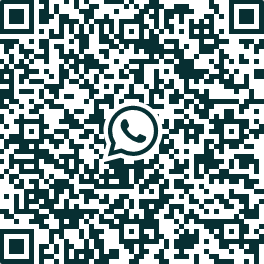
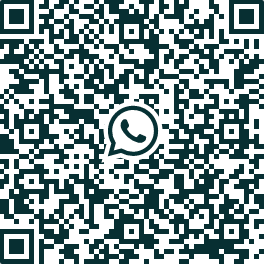
first commit

diff --git a/parser/parser.py b/parser/parser.py
@@ -17,6 +17,7 @@ import requests
 from bs4 import BeautifulSoup as bs
 import time
 import sys
+import urllib.request
 
 from database import crud
 
@@ -78,6 +79,47 @@ async def get_items(category : str, session, subcategory : str = 'Другое')
             #
             logging.info(title)
             time.sleep(1)
+
+            
+            img = await session.get_screenshot()
+            with open('item.png', 'wb') as png:
+                png.write(img.read())
+            if subcategory == 'Другое':
+                img_xpath = '//*[@id="app"]/div/div/div[6]/span/div/span/div/div[2]/div/div[2]/div/div[1]/div[1]/div/img'
+            else:
+                img_xpath = '//*[@id="app"]/div/div/div[6]/span/div/span/span/div/div[2]/div/div[2]/div/div[1]/div[1]/div/img'
+            images_el = await session.wait_for_element(10, img_xpath, SelectorType.xpath)
+            print(images_el)
+            src = await images_el.get_attribute('src')
+            print(src)
+           
+            
+            
+            # сохраняем изображения
+            webpage = await session.get_page_source()
+            soup = bs(webpage, 'lxml')
+            image_links = soup.find_all('div', '_1Z_Af')
+            for im in image_links:
+                print(im.find('img').get('src'))
+            """
+            images = ''
+            async with aiohttp.ClientSession() as session:
+                for link in image_links:
+                    i = image_links.index(link) + 1
+                    response = await session.get(url=link.find('img').get('src'), ssl=False)
+                    if subcategory == 'Другое':
+                        with open(f"database/images/{category}/{i}_{title.replace(' ', '_').replace('/', '_')}.png", 'wb') as png:
+                            png.write(response.content)
+                        images += f"database/images/{category}/{i}_{title.replace(' ', '_').replace('/', '_')}.png\n"
+                    else:
+                        if not os.path.exists(f"database/images/{category}/{subcategory}"):
+                            os.mkdir(f"database/images/{category}/{subcategory}")
+                        with open(f"database/images/{category}/{subcategory}/{i}_{title.replace(' ', '_').replace('/', '_')}.png", 'wb') as png:
+                            png.write(response.content)
+                        images += f"database/images/{category}/{subcategory}/{i}_{title.replace(' ', '_').replace('/', '_')}.png\n"
+
+            """
+            images = ''
             if subcategory == 'Другое':
                 img_xpath = '//*[@id="app"]/div/div/div[6]/span/div/span/div/div[2]/div/div[2]/div/div[1]/div[1]/div/img'
                 img_el = await session.wait_for_element(10, img_xpath, SelectorType.xpath)
@@ -87,11 +129,11 @@ async def get_items(category : str, session, subcategory : str = 'Другое')
                     img_xpath = '//*[@id="app"]/div/div/div[6]/span/div/span/span/div/div[2]/div/div[2]/div/div[1]/div/div/img'
                     img_el = await session.wait_for_element(10, img_xpath, SelectorType.xpath)
                     img = await img_el.get_screenshot()
-                # сохраняем изображениe
                 except:
                     img_xpath = '//*[@id="app"]/div/div/div[6]/span/div/span/span/div/div[2]/div/div[2]/div/div[1]/div[1]/div/img'
                     img_el = await session.wait_for_element(10, img_xpath, SelectorType.xpath)
                     img = await img_el.get_screenshot()
+            
             #создаем дирректорию категории если ее еще нет
             if not os.path.exists(f"database/images/{category}"):
                 os.mkdir(f"database/images/{category}")
@@ -99,11 +141,14 @@ async def get_items(category : str, session, subcategory : str = 'Другое')
             if subcategory == 'Другое':
                 with open(f"database/images/{category}/{i}_{title.replace(' ', '_').replace('/', '_')}.png", 'wb') as png:
                     png.write(img.read())
+                images += f"database/images/{category}/{i}_{title.replace(' ', '_').replace('/', '_')}.png\n"
             else:
                 if not os.path.exists(f"database/images/{category}/{subcategory}"):
                     os.mkdir(f"database/images/{category}/{subcategory}")
                 with open(f"database/images/{category}/{subcategory}/{i}_{title.replace(' ', '_').replace('/', '_')}.png", 'wb') as png:
                     png.write(img.read())
+                images += f"database/images/{category}/{subcategory}/{i}_{title.replace(' ', '_').replace('/', '_')}.png\n"
+            
             # записываем данные о товаре
             if subcategory == 'Другое':
                 price_xpath = '//*[@id="app"]/div/div/div[6]/span/div/span/div/div[2]/div/div[3]/div[2]/span'
@@ -134,9 +179,9 @@ async def get_items(category : str, session, subcategory : str = 'Другое')
                 logging.info('no description')
             subcategory_ = None if subcategory == 'Другое' else subcategory
             if subcategory == 'Другое':
-                lst = [title, category, subcategory_, description, price, f"database/images/{category}/{i}_{title.replace(' ', '_').replace('/', '_')}.png"]
+                lst = [title, category, subcategory_, description, price, images]
             else:
-                lst = [title, category, subcategory_, description, price, f"database/images/{category}/{subcategory}/{i}_{title.replace(' ', '_').replace('/', '_')}.png"]
+                lst = [title, category, subcategory_, description, price, images]
             items.append(lst)
             logging.info(lst)
             # закрываем карточку товара кнопкой "назад"
@@ -192,7 +237,8 @@ async def get_catalog(url):
         "goog:chromeOptions": {"args": [
             '--user-data-dir=parser/User', 
             '--headless',
-            'window-size=1280,720',
+            #'window-size=1280,720',
+            '--start-maximized',
             '--private',
             '--disable-gpu',
             '--disable-dev-shm-usage',
@@ -203,6 +249,7 @@ async def get_catalog(url):
     
     async with get_session(service, browser) as session:
         await session.get(url)
+        await session.set_window_fullscreen()
         # пытаемся найти заголовок каталога, если его нет - делаем скриншот qr-кода 
         try:
             logging.warning('Попытка входа. Ищем название каталога.')
@@ -216,9 +263,9 @@ async def get_catalog(url):
             img = await session.get_screenshot()
             with open('parser/checklogin.png', 'wb') as png:
                 png.write(img.read())
-            #qc = await session.wait_for_element(120, qc_xpath, SelectorType.xpath)
-            await asyncio.sleep(60)
-            img = await session.get_screenshot()
+            qc = await session.wait_for_element(120, qc_xpath, SelectorType.xpath)
+            #await asyncio.sleep(60)
+            img = await qc.get_screenshot()
             with open('parser/screenshot.png', 'wb') as png:
                 png.write(img.read())
             # и снова пытаемся найти заголовок (в это время нужно отсканировать qr-код)

diff --git a/database/crud.py b/database/crud.py
@@ -96,8 +96,8 @@ def create_product(
     description : str = None, 
     price : float = None, 
     image : str = None) -> Product:
-    if Product.exists(name = name, description = description, price = price):
-        Product.get(name = name, description = description, price = price).delete()
+    #if Product.exists(name = name, description = description, price = price):
+    #    Product.get(name = name, description = description, price = price).delete()
     if category_exists(name=category):
         category = Category.get(name=category)
     else:

diff --git a/bot/main.py b/bot/main.py
@@ -34,6 +34,8 @@ async def scheduled_valentino():
 
 async def scheduled_catalogs(wait_for):
     while True:
+        await parser.get_lesilla()
+        await asyncio.sleep(10)
         catalogs = get_catalogs()
         for catalog in catalogs:
             await bot.send_message(227184505, f'{catalog.phone} начал парсинг')
